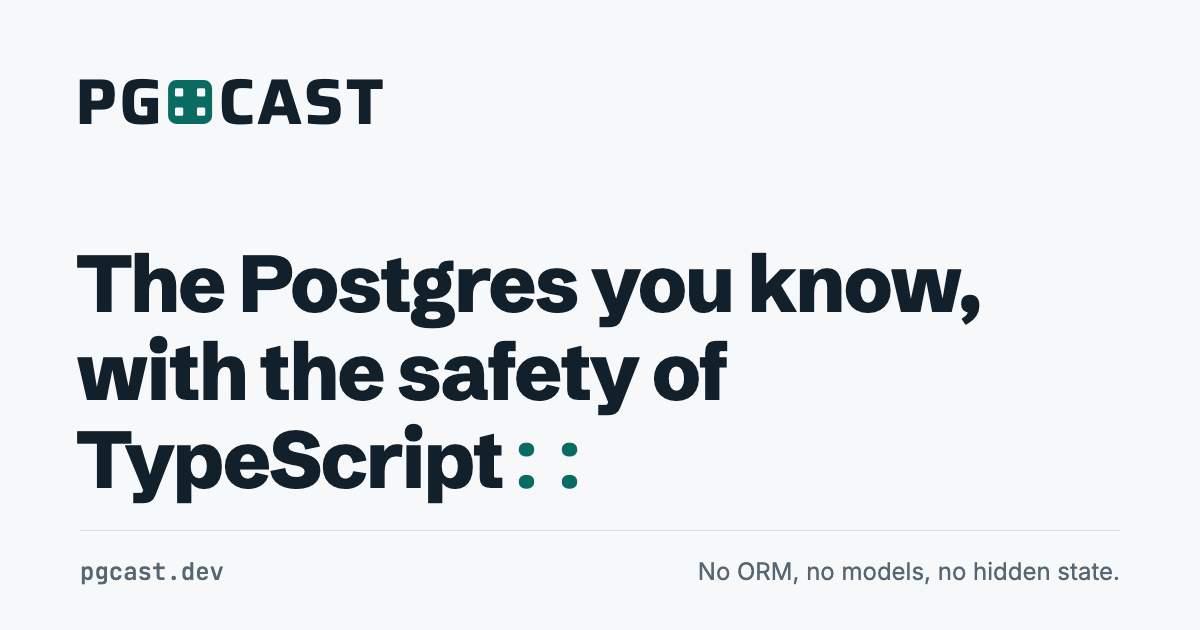
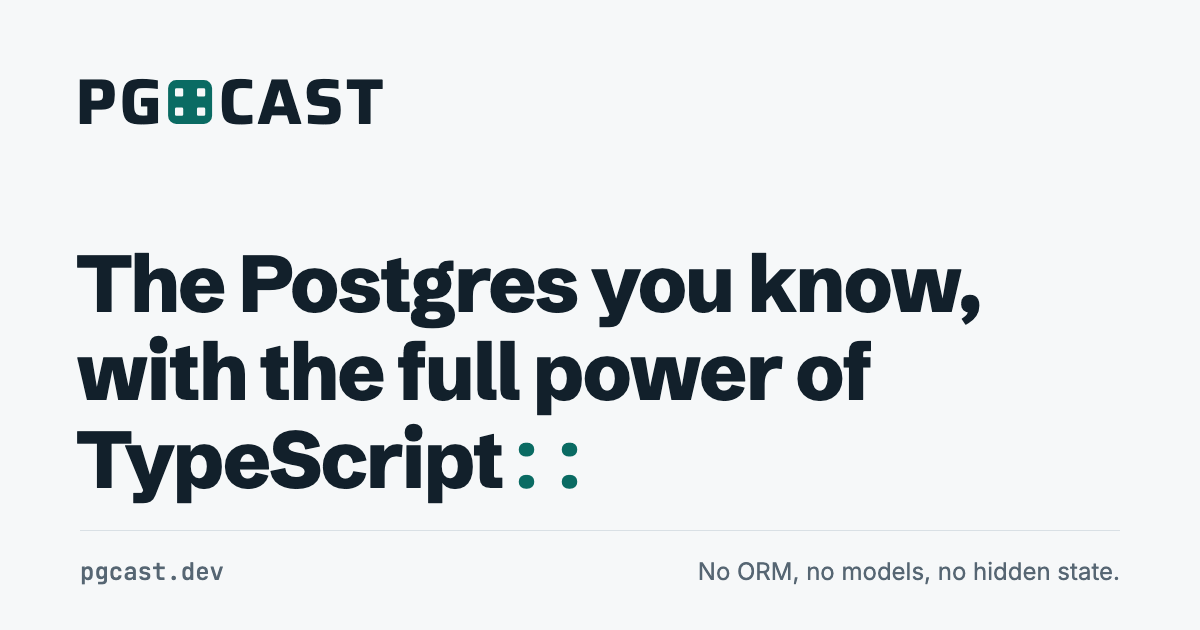
Say pgcast brings the full power of TypeScript, and what that means in the lede

Changed region(s): [[0.3083, 0.5429, 0.74, 0.6635]]

diff --git a/website/.vitepress/words.ts b/website/.vitepress/words.ts
@@ -24,8 +24,8 @@ const en = {
   code: 'EN',  // the language switcher's (theme/LanguageSwitch.vue)
   lang: 'en-GB',
   ogLocale: 'en_GB',
-  description: 'The Postgres you know, with the safety of TypeScript: zero abstraction, queries in Postgres’s natural vocabulary, types read from your schema.',
-  socialAlt: 'pgcast. The Postgres you know, with the safety of TypeScript.',
+  description: 'The Postgres you know, with the full power of TypeScript: zero abstraction, queries in Postgres’s natural vocabulary, types read from your schema.',
+  socialAlt: 'pgcast. The Postgres you know, with the full power of TypeScript.',
   // config.ts
   search: 'Search',
   searchDocs: 'Search the docs',
@@ -175,8 +175,8 @@ const fr: Words = {
   code: 'FR',
   lang: 'fr-FR',
   ogLocale: 'fr_FR',
-  description: 'Le Postgres que vous maîtrisez, avec la sécurité de TypeScript : zéro abstraction, des requêtes dans le vocabulaire naturel de Postgres, des types tirés de votre schéma.',
-  socialAlt: 'pgcast. Le Postgres que vous connaissez, avec la sécurité de TypeScript.',
+  description: 'Le Postgres que vous maîtrisez, avec toute la puissance de TypeScript : zéro abstraction, des requêtes dans le vocabulaire naturel de Postgres, des types tirés de votre schéma.',
+  socialAlt: 'pgcast. Le Postgres que vous connaissez, avec toute la puissance de TypeScript.',
   search: 'Rechercher',
   searchDocs: 'Rechercher dans la doc',
   editLink: 'Modifier cette page sur GitHub',

diff --git a/CHANGELOG.md b/CHANGELOG.md
@@ -64,7 +64,7 @@ pgcast is forked from [Zapatos 6.6.1](https://github.com/jawj/zapatos/tree/v6.6.
 - The docs of `Parameter`, in its JSDoc and under `param()` in the Reference, say that the types check a `Parameter` by its shape: an object with a `value` key of the column's type passes as one, and is sent as one parameter, as JSON. With `castObjectParamsToJson` off, the default, it is `$1` with `'{"value":3}'`, which a numeric column refuses (22P02) and a text column stores, and an object with a `toPostgres()` method is sent through it. The Reference adds what the option gives on: `CAST($1 AS "json")`, which Postgres refuses in a filter (42883) and in an `update()` of a numeric column (42804), and an object literal sent as JSON even with its own `toPostgres()`, a class instance still through it. A `ParentColumn` is checked the same way. Wrap a value with `param()`. The types are Zapatos 6.6.1's, unchanged. [#274](https://github.com/AlexandreDemartin/pgcast/issues/274)
 - The docs of `upsert()`, in its JSDoc and its Reference entry, say that an `updateColumns` computed at run time may be empty: with no `updateValues` key (with `undefinedMeansMissing`, a key set to `undefined` is none), the SQL is then `DO NOTHING`, and one row that conflicts gives `undefined`, though the type of a `Column[]` says the row; check for it, or pass `doNothing`, which the type follows. The behaviour and the types are Zapatos 6.6.1's, unchanged. [#402](https://github.com/AlexandreDemartin/pgcast/issues/402)
 - The docs say where Zapatos 6.6.1's behaviour, unchanged, surprised the characterisation: `transaction()` given a client in a raw `BEGIN` commits that transaction, or rolls it back at another level; `upsert()` also sets its `conflictTarget` columns; an `undefined` filter value is `NULL`, with `undefinedMeansMissing` or not; a `Date` on a `date` column is its local day; an inline `sql` fragment as a `where` or `update()` value may need a type argument; an untyped one in `lateral` or `extras` is `any` (R10, R15, R18, R20, R36, R37).
-- pgcast's line, on the docs home, its social card, the site's description, the README and the package: "The Postgres you know, with the safety of TypeScript" (in French, « Le Postgres que vous maîtrisez, avec la sécurité de TypeScript »), in place of "Your types, cast from your database", which said the types and not the queries. The home's lede says what follows: nothing between you and Postgres, queries in its natural vocabulary, clean SQL you can read and predict, a `sql` template when a shortcut isn't enough; types read from the schema, so TypeScript catches the mistakes before the query runs; no ORM or models between you and the database.
+- pgcast's line, on the docs home, its social card, the site's description, the README and the package: "The Postgres you know, with the full power of TypeScript" (in French, « Le Postgres que vous maîtrisez, avec toute la puissance de TypeScript »), in place of "Your types, cast from your database", which said the types and not the queries. The home's lede says what follows: nothing between you and Postgres, queries in its natural vocabulary, clean SQL you can read and predict, a `sql` template when a shortcut isn't enough; types read from the schema and carried through to each query's result, joins included, so autocompletion guides you and TypeScript catches the mistakes before the query runs; no ORM or models between you and the database.
 - The docs site presents pgcast on its own, Zapatos credited in the footer: the home loses its "maintained fork" line, its second button is Playground and its fourth pillar Live playground, and its content is the page's one `<main>`; the site's description, its Open Graph, JSON-LD and `llms.txt`, and the AI assistant's rules file no longer call it a fork. Switch from Zapatos is the last of the How-to guides, and Install links it. The README's provenance moves to its Relationship with Zapatos.
 - The docs pages' titles are brief, the concept's name, in the nav, each page's heading, its `<title>`, `llms.txt` and the links that quote them: First query, Joins, Pagination, Batches, Retries, Custom types, Raw SQL, Errors, Testing, AI assistants; SQL template, Select, Writes, Conditions, Transactions, Configuration, Generator; The catalog, Versions, Security. The function names stay in each page's lede, so the search still finds them; the URLs and anchors are unchanged.
 - The docs home's install command has a tab for each package manager, npm, pnpm, yarn and bun, npm first, and the command in its own panel; Copy copies the one shown. The reader's pick is remembered across pages and visits (`localStorage`), and the code groups of package managers, on Install and Switch from Zapatos, open on it too.

diff --git a/docs/design/art-direction.md b/docs/design/art-direction.md
@@ -6,7 +6,7 @@ The look of pgcast's docs ([decision 004](../decisions/004-documentation-site.md
 
 - **Wordmark**: **PG⟨mark⟩CAST**, the full logo: Postgres's cast operator, `::`, is the mark itself, the favicon's tile set between the two words as a seventh letter (`website/.vitepress/theme/Wordmark.vue`). The words are capitals of Saira, 700, `--fg`, letter-spacing `.04em`: a face of straight sides and rounded corners, the tile's own geometry. The tile is as tall as the capitals, so both stand on the baseline and share their middle: 14px in the top bar, where the letters are `calc(14px / .688)` (Saira's cap height is .688em), drawn there on a 14px grid (four 3px holes, 2px in, 4px apart) so that it stays sharp at 1x and 2x. The tile sits 2px from each word, the tracking after the G included. Its name is "pgcast"; what it shows is hidden from assistive technology. Lowercase was tried and set aside: its descenders and ascenders cannot be as tall as the tile and centred on it at once.
 - **Its entrance**, the site's one brand moment, on the home only, the first time it loads in a session (`sessionStorage`; never on another page, even a session's first, nor on reaching the home by a client-side navigation, where the wordmark is already on screen; nor without storage; with `prefers-reduced-motion: reduce`, the final state at once). The tile settles in (opacity 0 → 1, scale .9 → 1, 600ms), then the letters come into focus one by one from the tile outward (opacity 0 → 1, `blur(.25em)` → none, 1300ms each, from 300ms): G and C first, then P and A 120ms later, S at 200ms, T at 250ms, gaps that shrink so they read as a wave. 1.85s in all, on one strong ease-out, `cubic-bezier(.23, 1, .32, 1)`. Opacity, transform and filter alone, never a layout property, so the letters keep their place and width from the first frame. The server renders the wordmark at rest: a pre-paint script sets `data-wordmark` on `<html>`, which the entrance's rules need, and `Wordmark.vue` removes it once the entrance is over, so it never replays. A slide of the words out of the tile behind a soft mask was tried and set aside.
-- **Hero line**: "The Postgres you know, with the safety of TypeScript::" (in French, « Le Postgres que vous maîtrisez, avec la sécurité de TypeScript:: », amended 2026-11-16), the display face at 600, balanced over its lines (`text-wrap: balance`); the closing `::` in the mono face, 700, `--accent`, letter-spacing `-.06em`.
+- **Hero line**: "The Postgres you know, with the full power of TypeScript::" (in French, « Le Postgres que vous maîtrisez, avec toute la puissance de TypeScript:: », amended 2026-11-16), the display face at 600, balanced over its lines (`text-wrap: balance`); the closing `::` in the mono face, 700, `--accent`, letter-spacing `-.06em`.
 - **Eyebrow**, a SQL comment over a title, mono 500, 13px, `--accent`: the home's `-- a maintained fork of Zapatos 6.6.1` (back, amended 2026-11-14, #392), "Zapatos 6.6.1" a quiet link to Switch from Zapatos (underlined at 40% of its colour, in full on hover); the 404's `-- 404: 0 rows`.
 - **pgcast on its own**: the site's description, its Open Graph, JSON-LD and `llms.txt` present pgcast, not a fork; the home credits the fork in its eyebrow alone, discreetly, not as a pitch. Zapatos is credited in the footer, the README and the licence; Switch from Zapatos is the last of the How-to guides, linked from Install and from the home's eyebrow.
 - **Favicon**: the `::` cut out of a rounded square in `--accent` (radius 3/16 of its side), so the tab shows through the four dots: `website/public/favicon.svg`, light and dark. The social card, 1200×630, sets the wordmark (its tile 44px) and the hero line in the light theme, with no eyebrow: `website/public/social-card.svg`.

diff --git a/website/fr/index.md b/website/fr/index.md
@@ -1,10 +1,10 @@
 ---
-english: 9c693c8a5ff2
+english: a8e1494bd63d
 layout: home
 markdownStyles: false
 title: pgcast
 titleTemplate: Postgres sans abstraction pour TypeScript
-description: "Le Postgres que vous maîtrisez, avec la sécurité de TypeScript. pgcast lit votre schéma et en tire les types ; chaque requête est un SQL que vous pouvez lire et prévoir. Pas d’ORM, pas de modèles, pas d’état caché."
+description: "Le Postgres que vous maîtrisez, avec toute la puissance de TypeScript. pgcast lit votre schéma et en tire les types ; chaque requête est un SQL que vous pouvez lire et prévoir. Pas d’ORM, pas de modèles, pas d’état caché."
 ---
 
 <main class="landing">
@@ -12,9 +12,9 @@ description: "Le Postgres que vous maîtrisez, avec la sécurité de TypeScript.
 
 <p class="eyebrow">-- un fork maintenu de <a href="/fr/switching">Zapatos 6.6.1</a></p>
 
-<h1>Le Postgres que vous maîtrisez, avec la sécurité de TypeScript<span class="op">::</span></h1>
+<h1>Le Postgres que vous maîtrisez, avec toute la puissance de TypeScript<span class="op">::</span></h1>
 
-Aucune couche entre vous et Postgres : vous écrivez vos requêtes dans son vocabulaire naturel, et chaque raccourci produit un SQL propre, que vous pouvez lire et prévoir. Quand un raccourci ne suffit pas, vous écrivez le SQL vous-même dans un template `sql`. pgcast lit votre schéma et en tire les types, pour que TypeScript attrape les erreurs avant que la requête parte. Pas d’ORM, pas de modèles, pas d’état caché.
+Aucune couche entre vous et Postgres : vous écrivez vos requêtes dans son vocabulaire naturel, et chaque raccourci produit un SQL propre, que vous pouvez lire et prévoir. Quand un raccourci ne suffit pas, vous écrivez le SQL vous-même dans un template `sql`. pgcast lit votre schéma, en tire les types et les porte jusqu’au résultat de chaque requête, jointures comprises : l’autocomplétion vous guide, et TypeScript attrape les erreurs avant que la requête parte. Pas d’ORM, pas de modèles, pas d’état caché.
 {.lede}
 
 <div class="ctas">

diff --git a/website/index.md b/website/index.md
@@ -3,7 +3,7 @@ layout: home
 markdownStyles: false
 title: pgcast
 titleTemplate: Zero-abstraction Postgres for TypeScript
-description: "The Postgres you know, with the safety of TypeScript. pgcast reads your schema and writes the types; each query is SQL you can read and predict. No ORM, no models, no hidden state."
+description: "The Postgres you know, with the full power of TypeScript. pgcast reads your schema and writes the types; each query is SQL you can read and predict. No ORM, no models, no hidden state."
 ---
 
 <main class="landing">
@@ -11,9 +11,9 @@ description: "The Postgres you know, with the safety of TypeScript. pgcast reads
 
 <p class="eyebrow">-- a maintained fork of <a href="/switching">Zapatos 6.6.1</a></p>
 
-<h1>The Postgres you know, with the safety of TypeScript<span class="op">::</span></h1>
+<h1>The Postgres you know, with the full power of TypeScript<span class="op">::</span></h1>
 
-Nothing between you and Postgres: you write your queries in its natural vocabulary, and each shortcut produces clean SQL you can read and predict. When a shortcut isn’t enough, you write the SQL yourself in a `sql` template. pgcast reads your schema and writes the types, so TypeScript catches the mistakes before the query runs. No ORM, no models, no hidden state.
+Nothing between you and Postgres: you write your queries in its natural vocabulary, and each shortcut produces clean SQL you can read and predict. When a shortcut isn’t enough, you write the SQL yourself in a `sql` template. pgcast reads your schema, writes the types and carries them through to each query’s result, joins included: autocompletion guides you, and TypeScript catches the mistakes before the query runs. No ORM, no models, no hidden state.
 {.lede}
 
 <div class="ctas">

diff --git a/README.md b/README.md
@@ -1,6 +1,6 @@
 # pgcast
 
-**The Postgres you know, with the safety of TypeScript.**
+**The Postgres you know, with the full power of TypeScript.**
 
 Maintained by [Alexandre Demartin](https://github.com/AlexandreDemartin)
 
